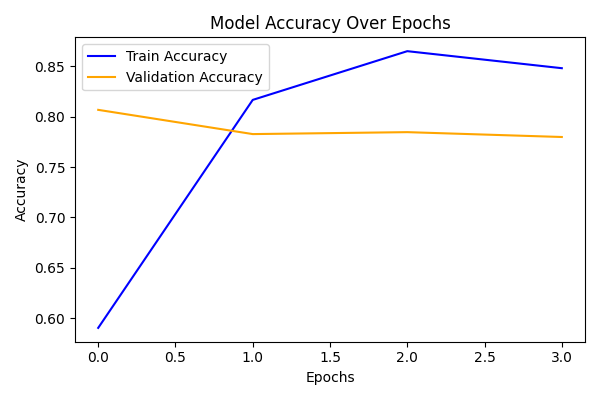
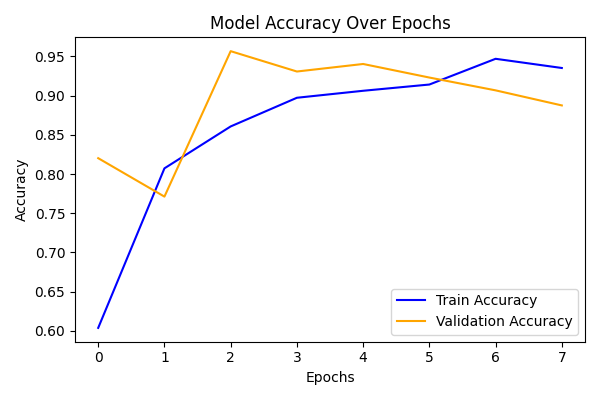
Update model and training script with correct class names and evaluation metrics

diff --git a/train.py b/train.py
@@ -1,118 +1,251 @@
 import os
-import cv2
 import numpy as np
-import matplotlib.pyplot as plt
 import tensorflow as tf
 from tensorflow.keras.preprocessing.image import ImageDataGenerator
 from tensorflow.keras.models import Sequential
-from tensorflow.keras.layers import Conv2D, MaxPooling2D, Flatten, Dense, Dropout
-from tensorflow.keras.callbacks import EarlyStopping
+from tensorflow.keras.layers import Flatten, Dense, Dropout, GlobalAveragePooling2D
+from tensorflow.keras.callbacks import EarlyStopping, ModelCheckpoint
+import matplotlib.pyplot as plt
+from sklearn.metrics import confusion_matrix, classification_report
 
-# -----------------------------
-# Step 1: Resize Images (Optional)
-# -----------------------------
-def resize_images(input_dir, output_dir, target_size=(128, 128)):
-    for class_name in os.listdir(input_dir):
-        class_path = os.path.join(input_dir, class_name)
-        save_path = os.path.join(output_dir, class_name)
-        os.makedirs(save_path, exist_ok=True)
+# Set random seed for reproducibility
+tf.random.set_seed(42)
 
-        for img_name in os.listdir(class_path):
-            img_path = os.path.join(class_path, img_name)
-            img = cv2.imread(img_path)
-            if img is not None:
-                resized = cv2.resize(img, target_size)
-                cv2.imwrite(os.path.join(save_path, img_name), resized)
+# Constants
+IMG_SIZE = (256, 256)
+BATCH_SIZE = 32
+EPOCHS = 25
 
-# Uncomment to run resizing once
-# resize_images("data/train", "data_resized/train")
-# resize_images("data/test", "data_resized/test")
+# Data paths - adjust these paths to where your data is located
+data_dir = 'data'  # This should contain 'train' and 'val' subdirectories
+train_dir = os.path.join(data_dir, 'train')
+val_dir = os.path.join(data_dir, 'val')
 
-# -----------------------------
-# Step 2: Define Paths
-# -----------------------------
-train_dir = "data_resized/train"
-val_dir = "data_resized/val"
+# Class names must match the subdirectory names exactly
+CLASS_NAMES = ['Potato___Early_blight', 'Potato___Late_blight', 'Potato___healthy']
 
-# -----------------------------
-# Step 3: Preprocess Images
-# -----------------------------
-img_size = (128, 128)
-batch_size = 32
+# Print directory structure for debugging
+print("Current working directory:", os.getcwd())
+print("Train directory:", os.path.abspath(train_dir))
+print("Validation directory:", os.path.abspath(val_dir))
 
-train_gen = ImageDataGenerator(
+# Check if directories exist and contain data
+def check_directory(directory):
+    if not os.path.exists(directory):
+        print(f" Directory does not exist: {directory}")
+        return False
+    
+    classes = [d for d in os.listdir(directory) 
+              if os.path.isdir(os.path.join(directory, d))]
+    
+    if not classes:
+        print(f" No class directories found in: {directory}")
+        return False
+    
+    print(f" Found {len(classes)} classes in {directory}:")
+    for cls in classes:
+        cls_path = os.path.join(directory, cls)
+        num_files = len([f for f in os.listdir(cls_path) 
+                        if os.path.isfile(os.path.join(cls_path, f))])
+        print(f"   - {cls}: {num_files} images")
+    
+    return True
+
+# Check data directories
+if not (check_directory(train_dir) and check_directory(val_dir)):
+    print(" Please check your data directories and try again.")
+    exit(1)
+
+# Data augmentation and preprocessing
+train_datagen = ImageDataGenerator(
     rescale=1./255,
     rotation_range=20,
     width_shift_range=0.2,
     height_shift_range=0.2,
+    shear_range=0.2,
     zoom_range=0.2,
-    horizontal_flip=True
-)
-val_gen = ImageDataGenerator(rescale=1./255)
-
-train_data = train_gen.flow_from_directory(
-    train_dir, target_size=img_size, batch_size=batch_size, class_mode='categorical'
-)
-val_data = val_gen.flow_from_directory(
-    val_dir, target_size=img_size, batch_size=batch_size, class_mode='categorical'
+    horizontal_flip=True,
+    fill_mode='nearest'
 )
 
-# -----------------------------
-# Step 4: Build CNN Model
-# -----------------------------
+val_datagen = ImageDataGenerator(rescale=1./255)
+
+# Load training data
+print("\nLoading training data...")
+train_generator = train_datagen.flow_from_directory(
+    train_dir,
+    target_size=IMG_SIZE,
+    batch_size=BATCH_SIZE,
+    class_mode='categorical',
+    classes=CLASS_NAMES,
+    shuffle=True
+)
+
+# Load validation data
+print("\nLoading validation data...")
+validation_generator = val_datagen.flow_from_directory(
+    val_dir,
+    target_size=IMG_SIZE,
+    batch_size=BATCH_SIZE,
+    class_mode='categorical',
+    classes=CLASS_NAMES,
+    shuffle=False
+)
+
+# Calculate class weights
+def calculate_class_weights(generator):
+    class_counts = {}
+    for _, labels in generator:
+        y_indices = np.argmax(labels, axis=1)
+        for idx in y_indices:
+            class_counts[idx] = class_counts.get(idx, 0) + 1
+        if len(class_counts) == len(generator.class_indices):
+            break
+    
+    total_samples = sum(class_counts.values())
+    num_classes = len(class_counts)
+    
+    class_weights = {}
+    for class_idx in class_counts:
+        class_weights[class_idx] = total_samples / (num_classes * class_counts[class_idx])
+    
+    print("Class weights:", class_weights)
+    return class_weights
+
+class_weights = calculate_class_weights(train_generator)
+
+# Reset generators
+train_generator.reset()
+validation_generator.reset()
+
+# Build transfer learning model (EfficientNetB0)
+base_model = tf.keras.applications.EfficientNetB0(
+    input_shape=(256, 256, 3),
+    include_top=False,
+    weights='imagenet'
+)
+base_model.trainable = False  # Freeze base model
+
 model = Sequential([
-    Conv2D(32, (3,3), activation='relu', input_shape=(128,128,3)),
-    MaxPooling2D(2,2),
-    Conv2D(64, (3,3), activation='relu'),
-    MaxPooling2D(2,2),
-    Conv2D(128, (3,3), activation='relu'),
-    MaxPooling2D(2,2),
-    Flatten(),
+    base_model,
+    GlobalAveragePooling2D(),
     Dense(128, activation='relu'),
     Dropout(0.5),
-    Dense(3, activation='softmax')  # 3 classes
+    Dense(3, activation='softmax')
 ])
 
-# -----------------------------
-# Step 5: Compile Model
-# -----------------------------
-model.compile(optimizer='adam', loss='categorical_crossentropy', metrics=['accuracy'])
-
-# -----------------------------
-# Step 6: Train Model
-# -----------------------------
-early_stop = EarlyStopping(monitor='val_loss', patience=3, restore_best_weights=True)
-
-history = model.fit(
-    train_data,
-    validation_data=val_data,
-    epochs=25,
-    callbacks=[early_stop],
-    verbose=1
+# Compile model
+model.compile(
+    optimizer=tf.keras.optimizers.Adam(learning_rate=0.0001),
+    loss='categorical_crossentropy',
+    metrics=['accuracy']
 )
 
-# -----------------------------
-# Step 7: Save Model (Keras v3 format)
-# -----------------------------
-model.save("potato_disease_model.keras", save_format="keras_v3")
-print("✅ Model saved as potato_disease_model.keras (Keras v3 format)")
+# Callbacks
+callbacks = [
+    EarlyStopping(monitor='val_loss', patience=5, restore_best_weights=True),
+    ModelCheckpoint(
+        'potato_disease_model.keras',
+        save_best_only=True,
+        save_weights_only=False,
+        monitor='val_accuracy',
+        mode='max'
+    )
+]
 
-# -----------------------------
-# Step 8: Evaluate Model
-# -----------------------------
-val_loss, val_acc = model.evaluate(val_data)
-print(f"📊 Validation Accuracy: {val_acc*100:.2f}% | Loss: {val_loss:.4f}")
+# Print model summary
+model.summary()
 
-# -----------------------------
-# Step 9: Plot Accuracy
-# -----------------------------
-plt.figure(figsize=(6,4))
-plt.plot(history.history['accuracy'], label='Train Accuracy', color='blue')
-plt.plot(history.history['val_accuracy'], label='Validation Accuracy', color='orange')
-plt.title('Model Accuracy Over Epochs')
-plt.xlabel('Epochs')
-plt.ylabel('Accuracy')
-plt.legend()
-plt.tight_layout()
-plt.savefig("accuracy_plot.png")
-plt.show()
+# Train model with class weights
+print("\nStarting model training...")
+history = model.fit(
+    train_generator,
+    epochs=EPOCHS,
+    validation_data=validation_generator,
+    callbacks=callbacks,
+    class_weight=class_weights
+)
+
+# Save the final model
+model.save('potato_disease_model_final.keras')
+print("✅ Training completed and model saved!")
+
+# Evaluate the model
+print("\nEvaluating model...")
+validation_generator.reset()
+val_preds = model.predict(validation_generator, verbose=1)
+y_pred = np.argmax(val_preds, axis=1)
+y_true = validation_generator.classes
+class_names = list(validation_generator.class_indices.keys())
+
+# Print evaluation metrics
+print("\nConfusion Matrix:")
+print(confusion_matrix(y_true, y_pred))
+print("\nClassification Report:")
+print(classification_report(y_true, y_pred, target_names=class_names))
+
+# Generate and save confusion matrix plot
+try:
+    # Create confusion matrix
+    cm = confusion_matrix(y_true, y_pred)
+    
+    # Plot confusion matrix
+    plt.figure(figsize=(8, 6))
+    plt.imshow(cm, interpolation='nearest', cmap=plt.cm.Blues)
+    plt.title('Confusion Matrix')
+    plt.colorbar()
+    
+    # Add labels
+    tick_marks = np.arange(len(class_names))
+    plt.xticks(tick_marks, class_names, rotation=45)
+    plt.yticks(tick_marks, class_names)
+    
+    # Add text annotations
+    thresh = cm.max() / 2.
+    for i in range(cm.shape[0]):
+        for j in range(cm.shape[1]):
+            plt.text(j, i, format(cm[i, j], 'd'),
+                    ha="center", va="center",
+                    color="white" if cm[i, j] > thresh else "black")
+    
+    plt.tight_layout()
+    plt.ylabel('True label')
+    plt.xlabel('Predicted label')
+    
+    # Save the plot
+    plt.savefig('confusion_matrix.png')
+    print("✅ Confusion matrix saved as 'confusion_matrix.png'")
+    plt.close()
+    
+except Exception as e:
+    print(f"⚠ Could not generate confusion matrix: {e}")
+
+# Plot training history
+try:
+    # Plot training & validation accuracy
+    plt.figure(figsize=(12, 4))
+    
+    plt.subplot(1, 2, 1)
+    plt.plot(history.history['accuracy'])
+    plt.plot(history.history['val_accuracy'])
+    plt.title('Model Accuracy')
+    plt.ylabel('Accuracy')
+    plt.xlabel('Epoch')
+    plt.legend(['Train', 'Validation'], loc='lower right')
+    
+    # Plot training & validation loss
+    plt.subplot(1, 2, 2)
+    plt.plot(history.history['loss'])
+    plt.plot(history.history['val_loss'])
+    plt.title('Model Loss')
+    plt.ylabel('Loss')
+    plt.xlabel('Epoch')
+    plt.legend(['Train', 'Validation'], loc='upper right')
+    
+    plt.tight_layout()
+    plt.savefig('training_history.png')
+    print("✅ Training history plot saved as 'training_history.png'")
+    plt.close()
+    
+except Exception as e:
+    print(f"⚠ Could not generate training plots: {e}")
